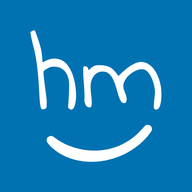
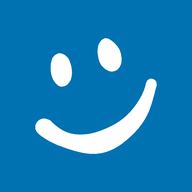
Symbol der Website: Smiley statt hm
Weißer Smiley auf Akzentblau, wie von Hand gezeichnet: ovale Augen, dicker
unruhiger Strich, Kopf gekippt. Vorlage in _werkzeuge/symbol.svg.

Changed region(s): [[0.1562, 0.1562, 0.8438, 0.8438]]

diff --git a/CLAUDE.md b/CLAUDE.md
@@ -330,12 +330,15 @@ Startseite, Themenseiten und Übersichten sehen aus wie die Arbeitsblätter
   mit der Maus und beim Antippen werden sie weiß (Entscheidung 11.11.2026: Auf iPad und Handy
   gibt es kein Darüberfahren, die Farben waren dort nur beim Tippen kurz zu sehen).
   Beim Aufhellen in OKLCH rechnen, nicht mit Weiß mischen: Gemischtes Blau kippt ins Türkis.
-- **Symbol der Website** (Tab, Lesezeichen, Home-Bildschirm): weißes „hm“ in Indie Flower auf
-  Akzentblau, darunter ein weißes Lächeln wie ein Pinselstrich (Mitte dicker, leicht
-  unregelmäßig, rechts höher gezogen); beides zusammen waagerecht und senkrecht mittig
-  (Entscheidung 10.11.2026). Dateien:
-  `favicon.ico` und `apple-touch-icon.png` (180 px) im Hauptordner, `stil/icon-32.png`,
-  `stil/icon-192.png`.
+- **Symbol der Website** (Tab, Lesezeichen, Home-Bildschirm, Logo oben links): weißer Smiley auf
+  Akzentblau, wie von Hand gezeichnet: zwei ovale Augen, darunter ein Lächeln mit dickem, leicht
+  unregelmäßigem Strich; der Kopf ist um 17° gegen den Uhrzeigersinn gekippt (rechts höher), das
+  Ganze steht waagerecht und senkrecht mittig (Entscheidung 11.11.2026, löst das „hm“ mit Lächeln
+  vom 10.11.2026 ab; Patrick wollte einen echten Smiley, nicht glatt und nicht Standard).
+  Vorlage als Vektorgrafik: `_werkzeuge/symbol.svg`. Dateien:
+  `favicon.ico` (16, 32, 48 px) und `apple-touch-icon.png` (180 px) im Hauptordner,
+  `stil/icon-32.png`, `stil/icon-192.png`; alle quadratisch ohne runde Ecken, die Seiten und
+  Geräte runden selbst.
 - Ändern sich die Farben oder die Kopfzeile im Skill `mathe`, zieht die Website nach.
 
 ## Inhalte auf den öffentlichen Seiten
